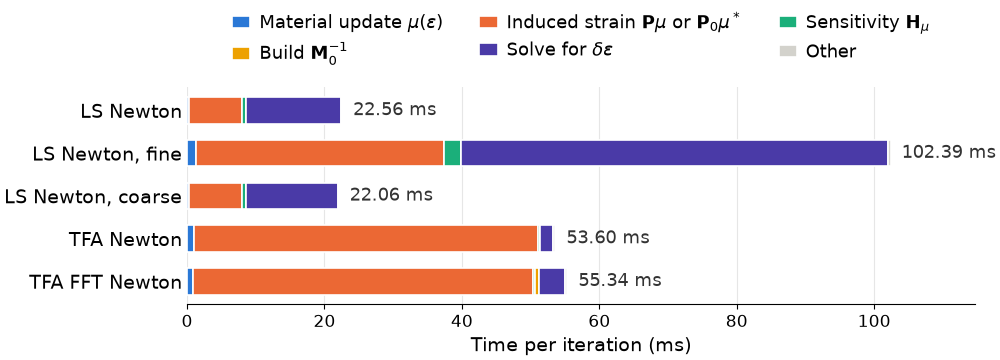
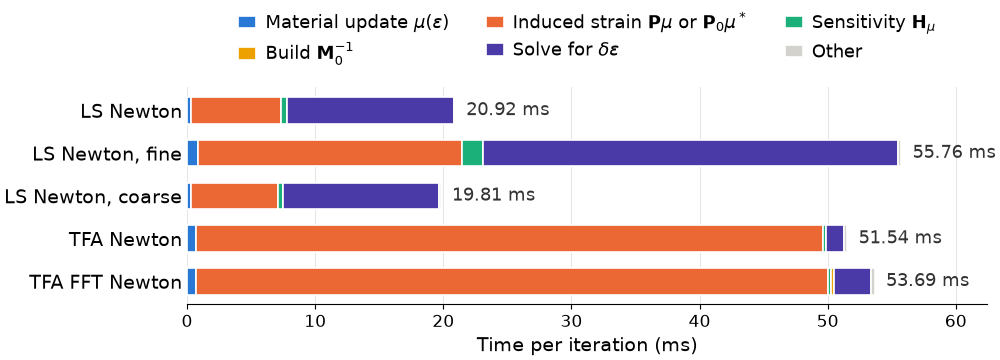
updated claude.md and different results

diff --git a/CLAUDE.md b/CLAUDE.md
@@ -64,8 +64,10 @@ every result alone (a refactor), run `check_code.py save` before it and `check_c
 the run, entry point, solver and array; a `problem/` difference means `config.py`'s inputs changed since the baseline
 was saved.
 
-No package manifest or virtualenv. The default `python` (miniforge `base` conda env) has the
-dependencies (`numpy`, `scipy`, `matplotlib`, `tqdm`); the `fenics-env`/`fenicsx-env` envs are unrelated.
+No package manifest. The dependencies (`numpy`, `scipy`, `matplotlib`, `tqdm`) are in the miniforge `base` conda env
+and in the repo's untracked `.venv/` (Python 3.12, not gitignored), which is what `python` runs when it is
+activated; `check_code.py` runs its smoke runs with whichever interpreter launched it (`sys.executable`). The
+`fenics-env`/`fenicsx-env` envs are unrelated.
 
 **All configuration is `code/config.py`**, shared by every entry point and grouped by topic: geometry, materials,
 reference stiffness, load path (`load_path_shape`: monotonic ramp, or cyclic 0 → +max → −max → 0 in
@@ -262,7 +264,8 @@ Next steps, in the order agreed:
    "homogenized" C0) and P0. Split the E and P solves and caches in `offline.get_E_and_P`; verify with
    `check_code.py compare` (results with TFA should match to round-off, since the solve batches change).
 2. Check whether `element_number_along_z = 1` reproduces `= 3` to round-off. The geometry and loading do not vary
-   through the thickness, so it should, which would make every offline solve and fine-LS run about 3× cheaper.
+   through the thickness, so it should. The default is already 1 (since commit `4e1d747`), but the comparison has
+   not been recorded; until it is, results at 1 rest on that expectation.
 3. Cost study: time and memory against resolution for partitioned LS, fine LS, coarse LS and TFA. This is the cost
    half of the research claim, and it can be measured now.
 4. A gold-standard reference: a separate FE-consistent FFT solver (Ladecký et al., `references/`; displacement

diff --git a/README.md b/README.md
@@ -91,7 +91,7 @@ computed against it.
 Next, in order:
 1. Build TFA's dense P only when TFA is included, so LS-only runs at fine resolution stop paying for it.
 2. Check whether one element layer through the thickness gives the same results as three (it should, since nothing
-   varies through the thickness), for about 3× cheaper offline solves.
+   varies through the thickness). One layer is already the default, for about 3× cheaper offline solves.
 3. A cost study: time and memory against resolution for partitioned, fine and coarse LS and TFA.
 4. A gold-standard reference: an FE-consistent FFT solver (Ladecký et al., in `references/`), and then the accuracy
    study, splitting each field error into what any one-value-per-partition scheme must miss and what the scheme adds.
